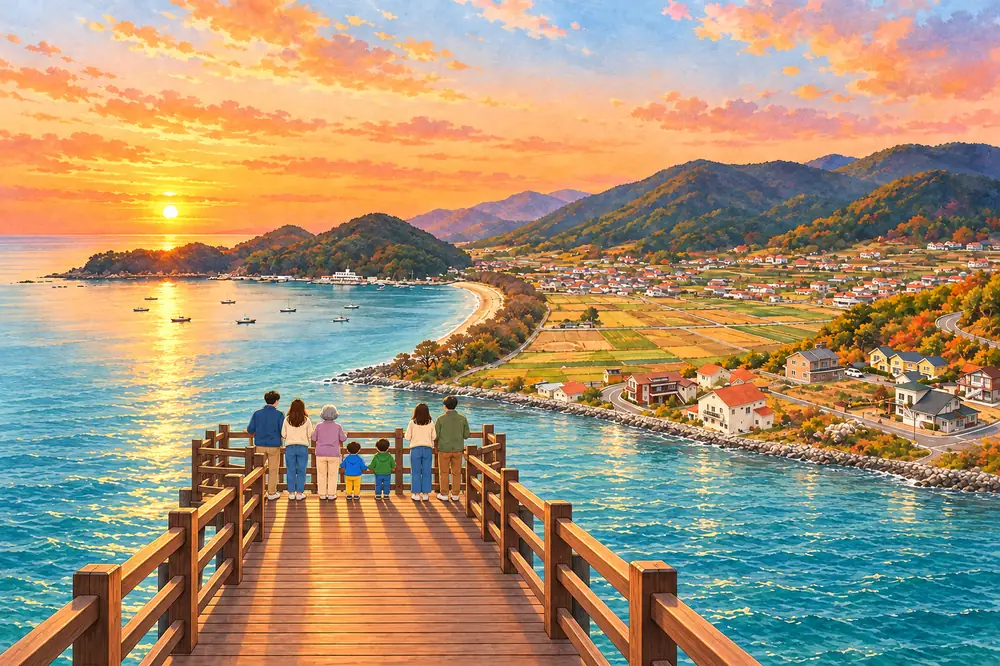
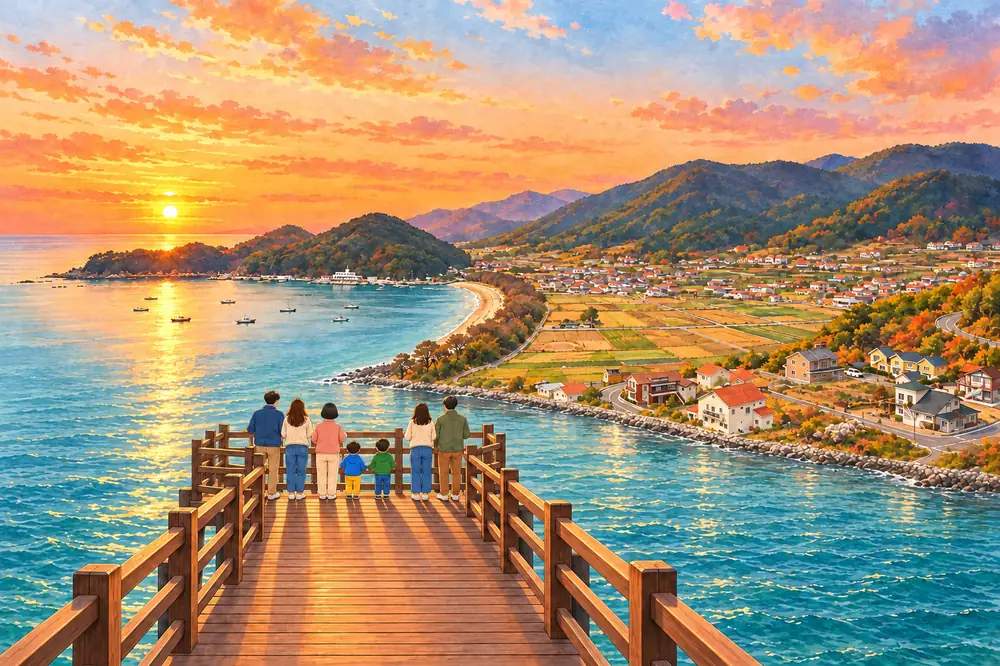
남해 여행 페이지: 노을 삽화의 할머니도 검은 머리로
Claude-Session: https://claude.ai/code/session_01GBAPx4zZgLfrimyvkt9r1i

diff --git a/p/namhae-2f5d7634f774/index.html b/p/namhae-2f5d7634f774/index.html
@@ -303,7 +303,7 @@
     <li>미니바, 냉장고, 차와 커피, 욕실용품, 로션, 샤워캡, 순면 타월이 있습니다.</li>
     <li>무료로 빌릴 수 있는 유아용품은 침대가드, 아기욕조, 변기 시트, 아기 침구, 젖병 소독기, 가습기입니다. 아기침대는 선착순이고, 아기의자와 유모차는 대여가 안 된다고 합니다.</li>
   </ul>
-  <img class="illust" src="img/sunset.webp" alt="남해의 만을 내려다보는 데크에서 노을을 보는 가족의 뒷모습 삽화 (실제 사진을 참고해 그림)" loading="lazy" width="1000" height="667">
+  <img class="illust" src="img/sunset.webp?v=3" alt="남해의 만을 내려다보는 데크에서 노을을 보는 가족의 뒷모습 삽화 (실제 사진을 참고해 그림)" loading="lazy" width="1000" height="667">
   </div>
 
   <h3>리조트 안에서 놀기</h3>
@@ -588,7 +588,7 @@
   <h3>동물과 체험</h3>
   <div class="cards">
     <div class="card">
-      <img class="illust" src="img/sheep.webp" alt="언덕 목장에서 양에게 먹이를 주는 두 남자아이와 할머니 삽화" loading="lazy">
+      <img class="illust" src="img/sheep.webp?v=3" alt="언덕 목장에서 양에게 먹이를 주는 두 남자아이와 할머니 삽화" loading="lazy">
       <h4>양모리학교 (남해 양떼목장)</h4>
       <div class="meta">09:00-18:00 · 대인 5,000원 · 5세 미만 무료</div>
       <p>양에게 먹이를 주는 목장입니다. 가족당 먹이 바구니 1개를 줍니다. 주말과 공휴일엔 양몰이 공연도 있습니다. 진입로가 좁고 가파르니 운전에 주의합니다.</p>
